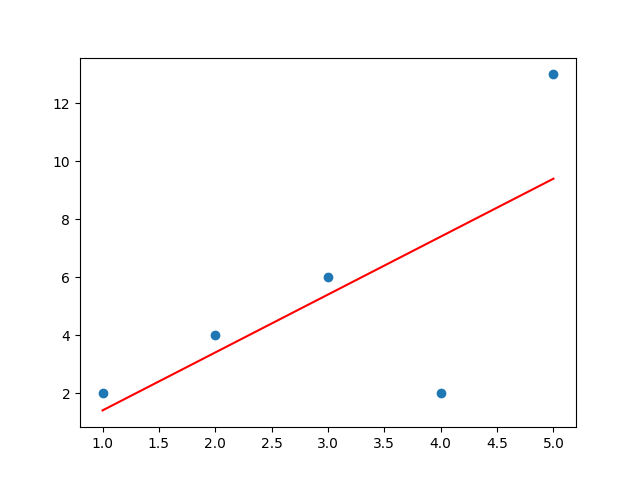
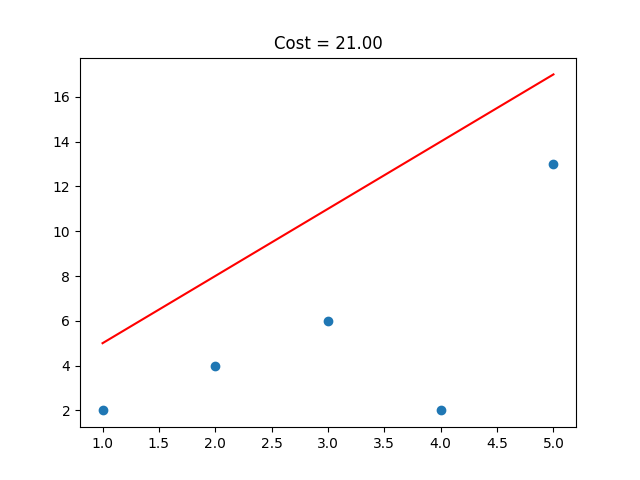
implemented linear regression

diff --git a/templates/index.html b/templates/index.html
@@ -7,8 +7,22 @@
 </head>
 <body>
     <h2>Upload CSV File</h2>
-    
+        <label for="fileInput">Add CSV file:</label>
         <input type="file" id="fileInput">
+        <br>
+        <br>
+
+        <label for="weight">Add value of weight(w):</label>
+        <input type="number" id="weight">
+        <br>
+        <br>
+
+        <label for="bias">Add value of bias(b):</label>
+        <input type="number" id="bias">
+        <br>
+        <br>
+
+
         <button  onclick="uploadFile()">Upload</button>
     
 
@@ -18,8 +32,12 @@
     <script>
         async function uploadFile(){
             let file=document.getElementById("fileInput").files[0];
+            let w=document.getElementById("weight").value;
+            let b=document.getElementById("bias").value;
             const formData=new FormData();
             formData.append("file",file);
+            formData.append("weight",w);
+            formData.append("bias",b);
 
             const response=await fetch("http://127.0.0.1:5000/upload",{method:"POST",body:formData});
             const blob = await response.blob()

diff --git a/regression.py b/regression.py
@@ -1,23 +1,42 @@
-
+import numpy as np
 import pandas as pd
 import matplotlib.pyplot as plt
-from sklearn.linear_model import LinearRegression
 
-def run_regression(file_path):
+
+def compute_fwb(X,w,b):
+    m=X.shape[0]
+    fwb=np.zeros(m)
+    fwb=w*X+b
+    return fwb
+
+def compute_cost(fwb,y):
+    m=fwb.shape[0]
+    cost=0
+    for i in range(m):
+        cost+=(fwb[i]-y[i])**2
+    return cost/(2*m)
+
+def run_regression(file_path,weight,bias):
 
     df=pd.read_csv(file_path)
 
     X = df.iloc[:,0].values.reshape(-1,1)
     y = df.iloc[:,1].values
 
-    model = LinearRegression()
-    model.fit(X,y)
+    w=weight
+    b=bias
 
-    y_pred = model.predict(X)
+    fwb=compute_fwb(X,w,b)
+    cost=compute_cost(fwb,y)
+
+    
+
+    
 
 
     plt.scatter(X,y)
-    plt.plot(X,y_pred,color='red')
+    plt.plot(X,fwb,color='red')
+    plt.title(f"Cost = {cost[0]:.2f}")
     plot_path = "plots/output.png"
     plt.savefig(plot_path)
     plt.close()

diff --git a/app.py b/app.py
@@ -20,11 +20,13 @@ def upload():
 
 
     file=request.files["file"]
+    weight=float(request.form["weight"])
+    bias=float(request.form["bias"])
     path=os.path.join(UPLOAD_FOLDER,file.filename)
 
     file.save(path)
 
-    plot_path=run_regression(path)
+    plot_path=run_regression(path,weight,bias)
 
     return send_file(plot_path, mimetype="image/png")
 
